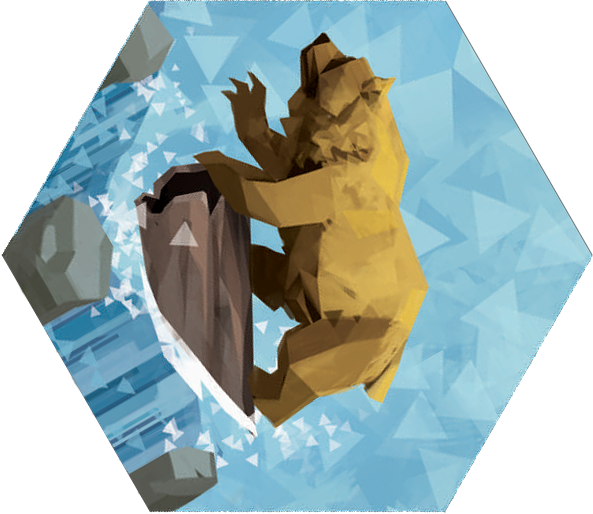
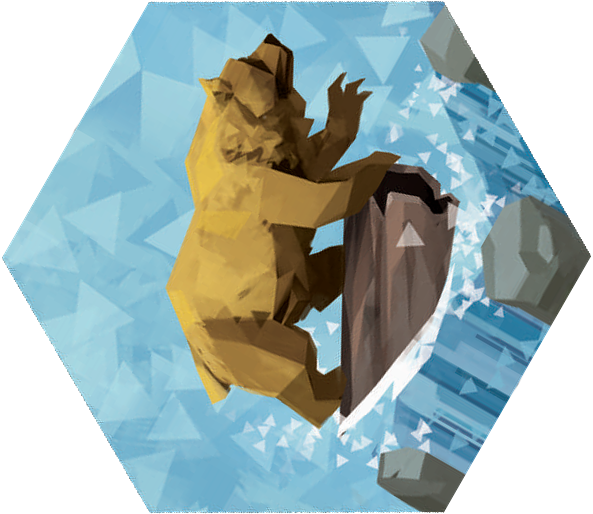
Cambio en las orientaciones de las losetas y corrección del swim

diff --git a/src/main/java/org/springframework/samples/upstream/tile/TileService.java b/src/main/java/org/springframework/samples/upstream/tile/TileService.java
@@ -162,7 +162,7 @@ public class TileService {
 		
 		TileType type = tile.getTileType();
 		if(type.equals(TileType.BEAR)||type.equals(TileType.WATERFALL)) {
-			tile.setOrientation(ThreadLocalRandom.current().nextInt(0, 6));
+			tile.setOrientation(ThreadLocalRandom.current().nextInt(1, 7));
 		}
 		else if(type.equals(TileType.EAGLE)||type.equals(TileType.HERON)||type.equals(TileType.WATER)||type.equals(TileType.ROCK)){
 			tile.setOrientation(0);
@@ -171,11 +171,11 @@ public class TileService {
 			if(tile.getColumnIndex()==1) {
 				tile.setOrientation(ThreadLocalRandom.current().nextInt(1, 3));
 			}
-			else if(tile.getColumnIndex()==2) {
-				tile.setOrientation(ThreadLocalRandom.current().nextInt(0, 2));
+			else if(tile.getColumnIndex()==3) {
+				tile.setOrientation(ThreadLocalRandom.current().nextInt(1, 3));
 			}
 			else {
-				tile.setOrientation(ThreadLocalRandom.current().nextInt(0, 3));
+				tile.setOrientation(ThreadLocalRandom.current().nextInt(1, 4));
 			}
 			
 		}

diff --git a/src/main/java/org/springframework/samples/upstream/piece/PieceService.java b/src/main/java/org/springframework/samples/upstream/piece/PieceService.java
@@ -182,7 +182,7 @@ public class PieceService {
 	public Boolean checkDistanceSwim(Tile oldTile, Tile newTile) {
 		Integer rowDistance = Math.abs(oldTile.getRowIndex() - newTile.getRowIndex());
 		Integer columnDistance = Math.abs(oldTile.getColumnIndex() - newTile.getColumnIndex());
-		return rowDistance <= 1 || columnDistance <= 1;
+		return rowDistance <= 1 && columnDistance <= 1;
 	}
 	
 	public Boolean checkDistanceJump(Tile oldTile, Tile newTile, Round round) throws InvalidPositionException{
